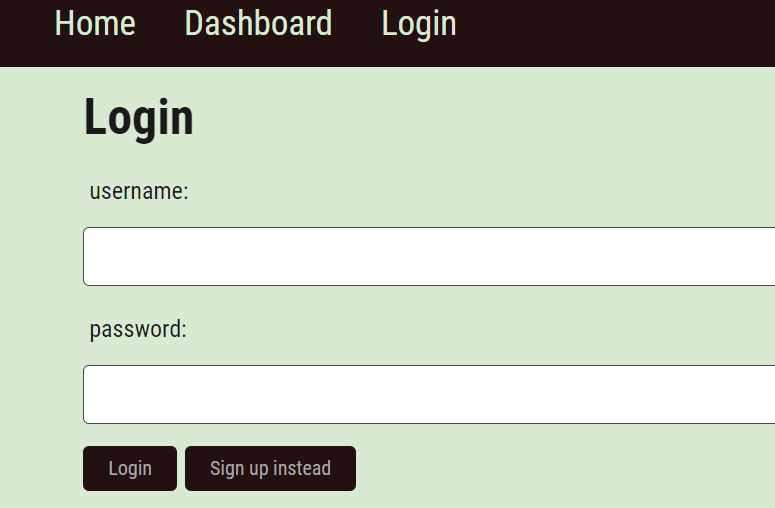
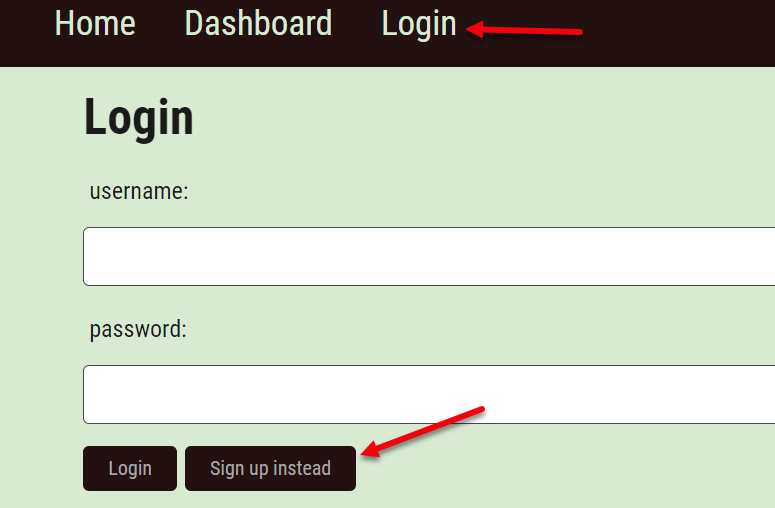
updated readme and images

Changed region(s): [[0.5884, 0.0295, 0.7432, 0.0886], [0.4645, 0.7972, 0.6503, 0.9154]]

diff --git a/public/css/style.css b/public/css/style.css
@@ -78,6 +78,14 @@ nav>ul>li>a {
   cursor: pointer;
 }
 
+.link-highlight:hover {
+  color: #FBC21C;
+  text-decoration: underline;
+  background-color: var(--brown);
+  cursor: pointer;
+}
+
+
 .header-title {
   background-color: var(--green);
   border: 10px;

diff --git a/README.md b/README.md
@@ -1,7 +1,7 @@
 
   # [![License: MIT](https://img.shields.io/badge/License-MIT-yellow.svg)](https://opensource.org/licenses/MIT)
 
-  # E-Commerce Back End
+  # Tech-Blog
 
   ## Table of Contents
  - [Description](#description)
@@ -13,24 +13,24 @@
  - [Questions](#questions)
   
   ## Description
-  This is a Tech Blog application where developers can publish their blog posts and comment on other developers’ posts as well. Its is a full stack application with the front end developed using Handlebars, routing done using Express.js and Node.js and the backend uses Sequelize to interact with MySQL where the data is stored.
+  This is a Tech Blog application where developers can publish their blog posts and comment on other developers’ posts as well. It is a full stack application with the front end developed using Handlebars, routing done using Express.js and Node.js and the backend uses Sequelize to interact with MySQL where the data is stored.
 
   Users can create an account and login and their session details are stored utilising the "express-session" package. Returning users will be authenticated against their username and password. Passwords are encrypted using bcrypt.
 
   The application follows the Model View Controller pattern. The Controller contains routes for the API and routes to render the content using Handlebars. The Views holds the Handlebar files for rendering and The Model being an abstraction that represents the table in the mysql database holds the files that define the data.
 
-  Logged in users can create, read, update and delete Blog posts, as well as comment on existing Blog posts. User are autmatically logged out after a set time.
+  Logged in users can create, read, update and delete Blog posts, as well as comment on existing Blog posts. User are automatically logged out after a set time.
   
   The application is developed using the following technologies:
-  - javascript
-  - node.js
+  - Javascript
+  - Node.js
   - Sequelize
   - MySQL2
   - Express.js
-  - dotenv package
+  - Dotenv package
   - Handlebars
 
-  The main challenge in developing this application was getting all the routes developed correctly and in the correct files using the MVC pattern. 
+  The main challenge in developing this application was getting all the routes developed correctly and in the correct file structure using the MVC pattern. 
 
 
   ## Installation
@@ -58,7 +58,7 @@ npm start
 ```
 You should see the server startup message:
 
-![Here is a screenshot showing the server started.](./images/server_start.png)
+![Here is a screenshot showing the server started.](/images/server-start.png)
 
 Once the server is running you can open your browser and enter:
 ```
@@ -67,29 +67,24 @@ http://localhost:3001/
 ```
 
 You will be presented with the Home Page:
+![Here is a screenshot showing the home page.](/images/homepage.png)
 
-To setup a login, click the "Login" link and then choose "Sign up instead". Enter your details and click "Submit".
+To create a login, click the "Login" link and then choose "Sign up instead". Enter your details and click "Submit".
+
+![Here is a screenshot showing the login page.](/images/login.png)
 
 Once logged in you can open any Blog and you will see the details of the Blog plus any existing comments. You can add comments here too.
 
-To create, update or delete one of you own Blog posts, select the "Dashboard" link. You will be presented with a list of your Blogs. Click one to update to delete it.
+![Here is a screenshot showing the comments.](/images/comments.png)
+
+To create, update or delete one of you own Blog posts, select the "Dashboard" link. You will be presented with a list of your Blogs. Click one to update or delete it.
+![Here is a screenshot showing the update page.](/images/update-delete.png)
 
 To create a new Blog post select the "New Post" option at the end of the "Dashboard" page.
 
+![Here is a screenshot showing the new post page.](/images/new-post.png)
+
 When you are finished, click "Logout" to logout.
-
-Below are some samples:
-
-![Here is a screenshot listing all products.](./images/get_products.png)
-
-
-![Here is a screenshot posting a product.](./images/post_product.png)
-
-
-![Here is a screenshot listing one category.](./images/get_one_category.png)
-
-
-![Here is a screenshot updating a tag.](./images/put_tag.png)
 
 
   ## License
@@ -99,7 +94,7 @@ Below are some samples:
   
   
   ## Test Instructions
-  The application can be tested using an API client such as Insomnia. The api is outlined in usage above. Please check models/Category.js, models/Product.js and models/ProductTag.js to see the expected fields for each model.
+  The application can be tested by following the instructions above under the Usage section.
 
 
   ## Credits
